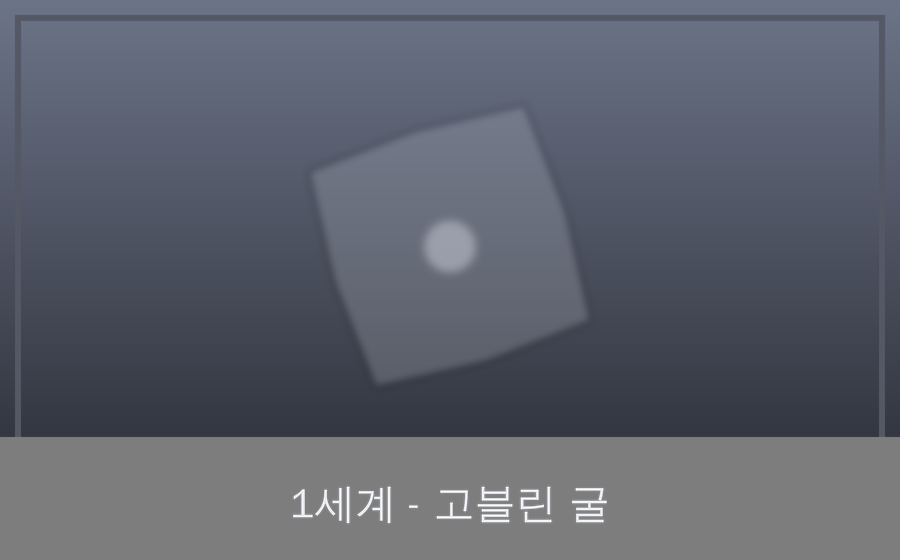
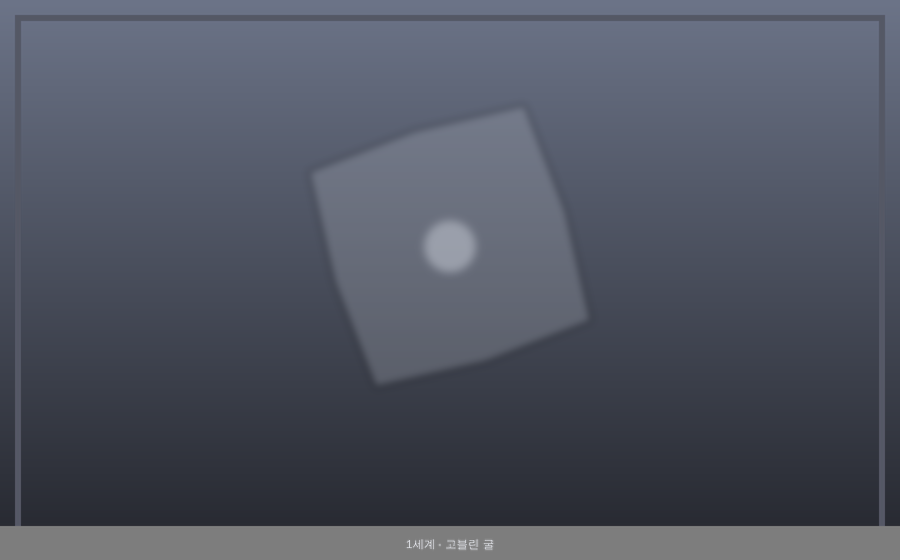
Drive a main-campaign run, and stop the map from lying
튜토리얼은 준비 화면을 전부 건너뛴다(월드도 파티도 정해져 있다). §16.2.2의
[1]~[6]과 파티 2명 전투, 자리를 고르는 보상 수령은 본편에서만 지나는 길이라
드라이버를 졸업한 계정으로도 돌렸다.

준비 화면과 본편 전투는 그대로 통과했다. 대신 지도에서 나왔다.

**지도가 갈 수 있는 칸을 표시하지 않았다.** `render_map` 은 `available` 을
받아 갈 수 있는 칸을 밝게 그리도록 되어 있는데 `visuals.game_map` 이 그것을
한 번도 넘기지 않았다. 넘기지 않으면 기본값이 빈 집합이라 **현재 칸을 뺀 모든
칸이 "지나온 칸" 색**이 된다 — 버튼은 갈 곳을 알려 주는데 그림은 지도 전체가
이미 끝난 것처럼 보였다.

**`run_nodes.state` 는 아무도 갱신하지 않았다.** 만들 때 한 번 적히고 끝이라
지나온 칸과 아직 닿지 않은 칸이 구별되지 않았다. 칸에 들어설 때 표시하고,
지도가 네 가지를 다르게 그린다.

**자리를 지킬 그림의 이름 띠가 배경에서 간판만 해졌다.** 띠 높이를 비율로만
정해 두어 560픽셀 월드 배경에서는 글자가 40픽셀이 되어 보스 칸을 덮었다.
띠와 글자에 절대 상한을 두고 배경 그림을 다시 만들었다.

드라이버 쪽도 하나 고쳤다. `/event` 는 명령이든 컴포넌트든 모든 응답에 대해
스레드 요청을 실행하는데 드라이버는 명령에만 했다 — 서비스가 아니라 드라이버의
구멍이었다.

Claude-Session: https://claude.ai/code/session_0188YRz4PA9DAHMewi6hsJNs

Changed region(s): [[0.0, 0.7589, 1.0, 1.0]]

diff --git a/tests/test_playthrough.py b/tests/test_playthrough.py
@@ -129,7 +129,12 @@ class Session:
                 options = component.get("options") or []
                 if not options:
                     raise AssertionError("선택지가 비어 있는 선택 컴포넌트입니다")
-                values = [_strongest(options)["value"]]
+                # 준비 화면의 파티 선택처럼 여러 개를 요구하는 컴포넌트가 있다.
+                # 하나만 골라 보내면 화면이 요구한 것과 다른 제출이 된다.
+                wanted = max(1, int(component.get("min_values", 1)))
+                values = [option["value"] for option in options[:wanted]]
+                if wanted == 1:
+                    values = [_strongest(options)["value"]]
 
             event = ev.InteractionEvent(
                 event_id=f"press-{self.presses}", user_id=self.user_id,
@@ -137,6 +142,12 @@ class Session:
                 values=values)
             self.presses += 1
             reply = handlers.handle_interaction(self.ctx, event)
+            # `/event` 는 명령이든 컴포넌트든 **모든** 응답에 대해 스레드 요청을
+            # 실행한다. 준비 화면의 마지막 단계가 컴포넌트이므로, 여기서
+            # 빠뜨리면 런이 스레드 없이 만들어진다 (§1.3.5).
+            reply = surfaces.fulfil_thread_request(
+                self.ctx.db, self.ctx.central, reply,
+                parent_channel_id=PARENT_CHANNEL)
             self.log.append(f"{self.state()}: {reply.get('content', '')[:40]}")
             if reply.get("action") != "reply_ephemeral":
                 self.screen = reply
@@ -347,3 +358,94 @@ def test_stock_you_cannot_afford_is_not_offered(ctx, db, user_id):
         {"item_index": 0, "price": 999, "purchased": 0, "item_ref": "{}"}])
     assert all(entry["type"] != "string_select" for entry in components)
     assert components, "나가기까지 사라지면 상점에서 못 나온다"
+
+
+# =====================================================================
+# 본편 한 판 — 준비 화면부터
+# =====================================================================
+def graduate(db, user_id: int, content_version_id: int) -> None:
+    """튜토리얼을 마친 계정으로 만든다 (§3.4.3 이 하는 일과 같은 결과).
+
+    본편은 파티 2명부터이고(§4.1), 그 두 번째 자리는 §5.10의 첫 뽑기 보장으로
+    채워진다. 여기서는 그 결과 상태를 바로 만든다 — 확인하려는 것은 뽑기가
+    아니라 **본편 런이 화면으로 돌아가는가** 이기 때문이다.
+    """
+    from app.db.connection import utcnow
+
+    db.execute("UPDATE accounts SET tutorial_completed_at = ?, party_slots = 2, "
+               "carta = 5000 WHERE user_id = ?", (utcnow(), user_id))
+    db.execute("DELETE FROM world_unlocks WHERE user_id = ?", (user_id,))
+    db.execute("INSERT INTO world_unlocks (user_id, world_id, unlocked_at) "
+               "VALUES (?, 'world_1', ?)", (user_id, utcnow()))
+    db.execute("INSERT OR IGNORE INTO owned_characters (user_id, character_id, "
+               "star_rank, acquired_at) VALUES (?, 'char_ignis', 2, ?)",
+               (user_id, utcnow()))
+    # 보상 칸이 제안할 수 있으려면 계정이 해금한 카드가 있어야 한다 (§3.2).
+    for card_id in ("card_화_강타", "card_수_치유", "card_풍_질풍"):
+        db.execute("INSERT OR IGNORE INTO unlocked_cards (user_id, card_id, "
+                   "upgrade_tier, unlocked_at) VALUES (?, ?, 0, ?)",
+                   (user_id, card_id, utcnow()))
+
+
+def test_the_preparing_flow_can_be_completed_by_pressing(ctx, db, user_id):
+    """§16.2.2 [1]~[6] — 월드·파티·덱·패시브를 화면에서 골라 런을 만든다.
+
+    튜토리얼은 이 단계를 전부 건너뛰므로(월드도 파티도 정해져 있다), 준비
+    화면이 실제로 눌러서 통과되는지는 본편에서만 확인할 수 있다.
+    """
+    session = Session(ctx, user_id)
+    session.command()
+    graduate(db, user_id, ctx.content_version_id)
+
+    session.command("시작")
+    assert session.components(), "준비 화면에 누를 것이 없습니다"
+
+    # 런 행이 생길 때까지 준비 화면을 눌러 나아간다 ([5] MATERIALIZE).
+    for _ in range(20):
+        if lc.active_run_for(db, user_id) is not None:
+            break
+        session.press_first()
+    else:
+        pytest.fail(f"준비 화면을 빠져나오지 못했습니다: {session.log[-4:]}")
+
+    run = lc.active_run_for(db, user_id)
+    assert run["world_id"] == "world_1"
+    assert run["is_tutorial"] == 0
+
+    party = db.query("SELECT party_slot, character_id FROM run_characters "
+                     "WHERE run_id = ? ORDER BY party_slot", (run["run_id"],))
+    assert len(party) == 2, "본편인데 파티가 2명이 아닙니다 (§4.1)"
+
+    # 자리마다 §4.6.2의 덱이 서 있어야 한다.
+    for member in party:
+        count = db.one("SELECT COUNT(*) AS n FROM run_deck_cards WHERE run_id = ? "
+                       "AND party_slot = ?",
+                       (run["run_id"], member["party_slot"]))["n"]
+        assert count > 0, f"자리 {member['party_slot']} 의 덱이 비어 있습니다"
+
+
+def test_a_main_campaign_run_never_gets_stuck(ctx, db, user_id):
+    """본편은 파티 2명이라 라운드마다 두 번 고르고, 보상도 받을 자리를 고른다 —
+    튜토리얼이 한 번도 지나지 않는 길이다."""
+    session = Session(ctx, user_id)
+    session.command()
+    graduate(db, user_id, ctx.content_version_id)
+    session.command("시작")
+
+    for _ in range(20):
+        if lc.active_run_for(db, user_id) is not None:
+            break
+        session.press_first()
+    run_id = session.run_id()
+
+    # 스레드가 열렸고 지도에 서 있다.
+    assert db.one("SELECT thread_id FROM runs WHERE run_id = ?",
+                  (run_id,))["thread_id"] is not None
+    assert session.state() == lc.MAP_NAVIGATION
+
+    final = session.play()
+    assert final in TERMINAL
+    battles = db.one("SELECT COUNT(*) AS n FROM battles WHERE run_id = ?",
+                     (run_id,))["n"]
+    assert battles >= 1, "전투 한 번 없이 본편 런이 끝났습니다"
+    assert lc.active_run_for(db, user_id) is None

diff --git a/tests/test_controls.py b/tests/test_controls.py
@@ -299,3 +299,51 @@ def test_every_action_code_is_something_a_screen_can_produce():
     assert missing <= {"ACTION_REWARD_RECIPIENT"}, \
         f"화면이 만들지 않는 동작: {sorted(missing)}"
     assert not unreachable or True
+
+
+# =====================================================================
+# 지도 그림이 갈 곳을 말해 주는가
+# =====================================================================
+def test_the_map_picture_marks_the_branches_you_can_take(db, run_id, monkeypatch):
+    """`render_map` 은 `available` 을 받아 갈 수 있는 칸을 밝게 그리는데,
+    `visuals.game_map` 이 그것을 한 번도 넘기지 않았다. 넘기지 않으면 현재
+    칸을 뺀 **모든 칸이 "지나온 칸" 색**이 된다 — 버튼은 갈 곳을 알려 주는데
+    그림은 지도 전체가 끝난 것처럼 보였다."""
+    from app.api import visuals
+    from app.engine import map_gen
+    from app.render import panels
+
+    captured = {}
+    original = panels.render_map
+
+    def spy(nodes, edges, **kwargs):
+        captured.update(kwargs)
+        return original(nodes, edges, **kwargs)
+
+    monkeypatch.setattr(panels, "render_map", spy)
+    run = db.one("SELECT * FROM runs WHERE run_id = ?", (run_id,))
+    visuals.game_map(db, run)
+
+    expected = {entry["node_index"] for entry in
+                map_gen.available_next_nodes(db, run_id, run["current_node_index"])}
+    assert captured["available"] == expected
+    assert expected, "갈 수 있는 칸이 하나도 계산되지 않았습니다"
+
+
+def test_stepping_onto_a_node_records_it(db, balance, version, run_id, ctx,
+                                         user_id):
+    """`run_nodes.state` 는 만들 때 한 번 적히고 아무도 갱신하지 않았다 —
+    지나온 칸과 아직 닿지 않은 칸이 구별되지 않았다는 뜻이다."""
+    from app.engine import map_gen
+
+    before = db.one("SELECT COUNT(*) AS n FROM run_nodes WHERE run_id = ? "
+                    "AND state = ?", (run_id, map_gen.NODE_VISITED))["n"]
+    assert before == 0
+
+    button = only_component({"components": controls.game_map(db, run_id)})
+    chosen = int(cid.parse(button["custom_id"]).payload)
+    press(ctx, user_id, button["custom_id"])
+
+    state = db.one("SELECT state FROM run_nodes WHERE run_id = ? AND node_index = ?",
+                   (run_id, chosen))["state"]
+    assert state == map_gen.NODE_VISITED

diff --git a/app/render/panels.py b/app/render/panels.py
@@ -353,10 +353,17 @@ def render_hand(hand: list[dict], *, resource: int,
 def render_map(nodes: list[dict], edges: list[tuple[int, int]], *,
                current_node_index: int | None,
                available: set[int] | None = None,
+               visited: set[int] | None = None,
                world_id: str | None = None) -> Attachment:
-    """맵 화면 — 지도 전체를 한 장으로 (§11)."""
+    """맵 화면 — 지도 전체를 한 장으로 (§11).
+
+    칸은 네 가지로 그려진다: 지금 서 있는 칸, 갈 수 있는 칸, 지나온 칸,
+    그리고 아직 닿지 않은 칸. 지나온 칸과 닿지 않은 칸을 같은 색으로 그리면
+    지도가 어디까지 왔는지 말해 주지 못한다.
+    """
     canvas = Canvas(theme_module.load().size("map_size"))
     available = available or set()
+    visited = visited or set()
 
     if world_id:
         # 월드 그림을 넣어 두었으면 바탕으로 깐다. 없으면 그냥 배경색이다.
@@ -386,17 +393,23 @@ def render_map(nodes: list[dict], edges: list[tuple[int, int]], *,
             canvas.draw.line((*positions[source], *positions[target]),
                              fill=canvas.border, width=2)
 
-    visited = canvas.theme.color("color_visited")
+    visited_color = canvas.theme.color("color_visited")
     selectable = canvas.theme.color("color_selectable")
     for node in nodes:
         x, y = positions[node["node_index"]]
         is_current = node["node_index"] == current_node_index
         is_open = node["node_index"] in available
-        fill = (canvas.accent if is_current
-                else canvas.theme.node_color(node["node_type"]) if is_open
-                else visited)
+        is_past = node["node_index"] in visited
+        if is_current:
+            fill = canvas.accent
+        elif is_open:
+            fill = canvas.theme.node_color(node["node_type"])
+        elif is_past:
+            fill = visited_color
+        else:
+            fill = canvas.muted
         canvas.draw.ellipse((x - 22, y - 22, x + 22, y + 22), fill=fill,
-                            outline=selectable if is_open else canvas.muted,
+                            outline=selectable if is_open else canvas.border,
                             width=3 if is_open else 1)
         text = str(node["node_type"])[:2]
         font = canvas.font("small")

diff --git a/app/api/visuals.py b/app/api/visuals.py
@@ -137,18 +137,34 @@ def _hand(db: Database, run) -> list[dict]:
 # 지도
 # =====================================================================
 def game_map(db: Database, run, *, available: set[int] | None = None) -> list[dict]:
+    """지도 한 장.
+
+    `available` 을 넘기지 않으면 지금 갈 수 있는 칸을 직접 구한다. 예전에는
+    아무도 넘기지 않아 **모든 칸이 "지나온 칸" 색으로 그려졌다** — 버튼은
+    갈 곳을 알려 주는데 그림은 지도 전체가 이미 끝난 것처럼 보였다.
+    """
+
     def build() -> list[dict]:
+        from app.engine import map_gen
+
         nodes = [dict(row) for row in db.query(
-            "SELECT node_index, depth, node_type FROM run_nodes "
+            "SELECT node_index, depth, node_type, state FROM run_nodes "
             "WHERE run_id = ? ORDER BY node_index", (run["run_id"],))]
         if not nodes:
             return []
         edges = [(row["from_node_index"], row["to_node_index"]) for row in db.query(
             "SELECT from_node_index, to_node_index FROM run_edges WHERE run_id = ?",
             (run["run_id"],))]
+        options = available
+        if options is None:
+            options = {entry["node_index"] for entry in
+                       map_gen.available_next_nodes(db, run["run_id"],
+                                                    run["current_node_index"])}
+        visited = {node["node_index"] for node in nodes
+                   if node.get("state") == map_gen.NODE_VISITED}
         return attach(panels.render_map(
             nodes, edges, current_node_index=run["current_node_index"],
-            available=available, world_id=run["world_id"]))
+            available=options, visited=visited, world_id=run["world_id"]))
 
     return safely(build)
 

diff --git a/app/render/artgen.py b/app/render/artgen.py
@@ -30,6 +30,11 @@ from app.render.theme import Theme
 #: 그림을 이 배율로 크게 그린 뒤 줄인다. 계단 현상을 없애는 가장 싼 방법이다.
 SUPERSAMPLE = 3
 
+#: 이름 띠와 글자의 최종 크기(픽셀) 상한. 카드 한 장에는 넉넉하고, 월드 배경
+#: 처럼 큰 그림에서는 이름이 화면을 덮지 않을 만큼이다.
+MAX_LABEL_BAND = 34
+MAX_LABEL_FONT = 14
+
 
 def _seed(entity_id: str) -> int:
     return int.from_bytes(hashlib.sha256(entity_id.encode("utf-8")).digest()[:8],
@@ -111,10 +116,15 @@ def generate(theme: Theme, *, size: tuple[int, int], entity_id: str,
                    outline=(*border, 220), width=max(2, width // 150))
 
     # 이름은 아래쪽 띠 위에 올린다. 무늬 위에 그냥 쓰면 읽기 어렵다.
+    #
+    # 띠와 글자 크기에 상한을 둔다. 비율로만 정하면 월드 배경처럼 큰 그림에서
+    # 이름이 간판만 해져서, 그 위에 그려지는 지도의 칸을 덮어 버린다.
     if label:
-        band = int(height * 0.22)
+        band = min(int(height * 0.22), int(MAX_LABEL_BAND * SUPERSAMPLE))
         draw.rectangle([0, height - band, width, height], fill=(0, 0, 0, 130))
-        font = theme.font(max(10, band // 3), role="small")
+        font = theme.font(max(10, min(band // 3,
+                                      int(MAX_LABEL_FONT * SUPERSAMPLE))),
+                          role="small")
         _centered(draw, label, (0, height - band, width, height), font,
                   theme.color("color_text"))
 

diff --git a/app/engine/map_gen.py b/app/engine/map_gen.py
@@ -376,8 +376,9 @@ def persist_map(db: Database, run_id: int, generated: GeneratedMap) -> None:
         for node in generated.nodes:
             conn.execute(
                 "INSERT INTO run_nodes (run_id, node_index, depth, node_type, state) "
-                "VALUES (?, ?, ?, ?, 'available')",
-                (run_id, node["node_index"], node["depth"], node["node_type"]),
+                "VALUES (?, ?, ?, ?, ?)",
+                (run_id, node["node_index"], node["depth"], node["node_type"],
+                 NODE_AVAILABLE),
             )
         for source, target in generated.edges:
             conn.execute(
@@ -396,6 +397,19 @@ def persist_map(db: Database, run_id: int, generated: GeneratedMap) -> None:
                     "to_node_index) VALUES (?, ?, ?)",
                     (run_id, node["node_index"], boss_index),
                 )
+
+
+#: `run_nodes.state` 값. 지도를 그릴 때 "지나온 칸" 과 "아직 닿지 않은 칸" 을
+#: 구별하는 데 쓴다. 두 가지를 같은 색으로 그리면 지도가 어디까지 왔는지
+#: 말해 주지 못한다.
+NODE_AVAILABLE = "available"
+NODE_VISITED = "visited"
+
+
+def mark_visited(db: Database, run_id: int, node_index: int) -> None:
+    db.execute(
+        "UPDATE run_nodes SET state = ? WHERE run_id = ? AND node_index = ?",
+        (NODE_VISITED, run_id, node_index))
 
 
 def available_next_nodes(db: Database, run_id: int,

diff --git a/app/engine/nodes.py b/app/engine/nodes.py
@@ -62,6 +62,11 @@ def resolve_node(db: Database, balance: Balance, rng: JournaledRng, *,
     if node is None:
         raise NodeError(f"node {node_index} does not exist in run {run_id}")
 
+    # 이 칸에 발을 들였다는 사실을 남긴다. 지도가 지나온 길과 아직 닿지 않은
+    # 길을 구별해 그릴 수 있어야 한다 — 열은 처음부터 있었지만 아무도 갱신하지
+    # 않아 모든 칸이 같은 색이었다.
+    map_gen.mark_visited(db, run_id, node_index)
+
     node_type = node["node_type"]
     if node_type == map_gen.COMBAT:
         return _start_battle(db, balance, rng, run, node, kind="normal")

diff --git a/CHANGELOG.md b/CHANGELOG.md
@@ -13,6 +13,34 @@
 
 ## 2026-08-14
 
+### 13:15 KST — 본편 런도 화면으로 돌려 보기, 그리고 지도가 거짓말하던 것
+
+튜토리얼은 준비 화면을 전부 건너뜁니다(월드도 파티도 정해져 있습니다). 그래서
+§16.2.2의 [1]~[6]과 파티 2명 전투, 자리를 고르는 보상 수령은 **본편에서만**
+확인할 수 있습니다. 드라이버를 졸업한 계정으로도 돌렸습니다.
+
+준비 화면과 본편 전투는 그대로 통과했습니다. 대신 다른 것이 나왔습니다.
+
+**지도가 갈 수 있는 칸을 표시하지 않았습니다.** `render_map` 은 `available`
+집합을 받아 갈 수 있는 칸을 밝게 그리도록 되어 있는데, `visuals.game_map` 이
+그것을 **한 번도 넘기지 않았습니다.** 넘기지 않으면 기본값이 빈 집합이라
+**현재 칸을 뺀 모든 칸이 "지나온 칸" 색**으로 그려집니다 — 버튼은 갈 곳을
+알려 주는데 그림은 지도 전체가 이미 끝난 것처럼 보였습니다.
+
+**`run_nodes.state` 는 아무도 갱신하지 않았습니다.** 만들 때 `available` 로
+한 번 적히고 그걸로 끝이라, 지나온 칸과 아직 닿지 않은 칸이 구별되지
+않았습니다. 칸에 들어설 때 `visited` 로 표시하고, 지도가 네 가지(지금 선 칸 ·
+갈 수 있는 칸 · 지나온 칸 · 아직 닿지 않은 칸)를 다르게 그립니다.
+
+**자리를 지킬 그림의 이름 띠가 배경에서 간판만 해졌습니다.** 띠 높이를 비율로만
+정해 두어서, 560픽셀짜리 월드 배경에서는 글자가 40픽셀이 되어 그 위에 그려지는
+보스 칸을 덮었습니다. 띠와 글자에 절대 상한을 두었습니다.
+
+드라이버 쪽도 하나 고쳤습니다. `/event` 는 명령이든 컴포넌트든 **모든** 응답에
+대해 스레드 요청을 실행하는데 드라이버는 명령에만 했습니다. 준비 화면의 마지막
+단계가 컴포넌트라, 본편 런이 스레드 없이 만들어진 것처럼 보였습니다 — 서비스가
+아니라 드라이버의 구멍이었습니다.
+
 ### 12:30 KST — 런 한 판을 끝까지 눌러 보기, 그리고 거기서 나온 결함 다섯
 
 `tests/test_playthrough.py` 는 테스트이자 탐침입니다. 이번 작업에서 반복해 나온

diff --git a/README.md b/README.md
@@ -13,7 +13,7 @@ pip install -e ".[dev]"
 python -m app.cli.bootstrap --db deckout.db      # migrate + seed + publish content
 python -m app.cli.check_content --db deckout.db  # §10.5 validation pass
 uvicorn app.api.server:app --port 8080
-pytest                                           # 699 tests
+pytest                                           # 701 tests
 ```
 
 Registration (§1.3.0) — `route_threads: true` is **mandatory** and defaults to
